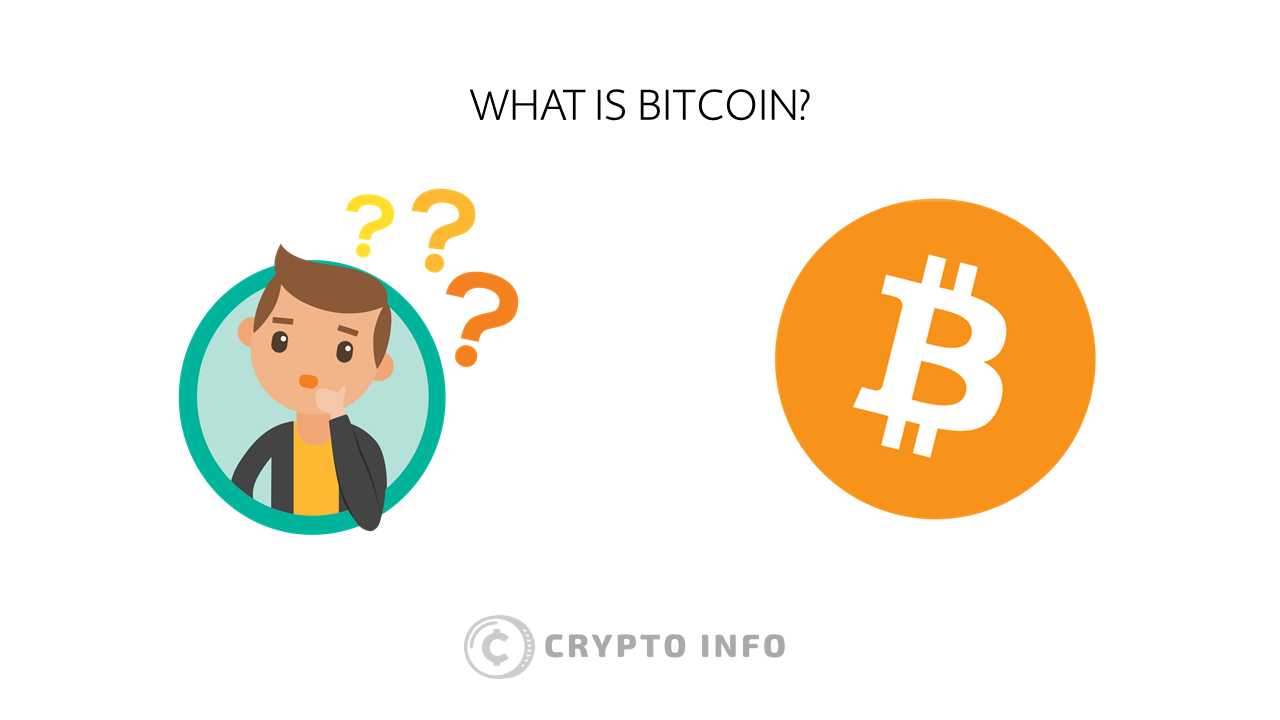
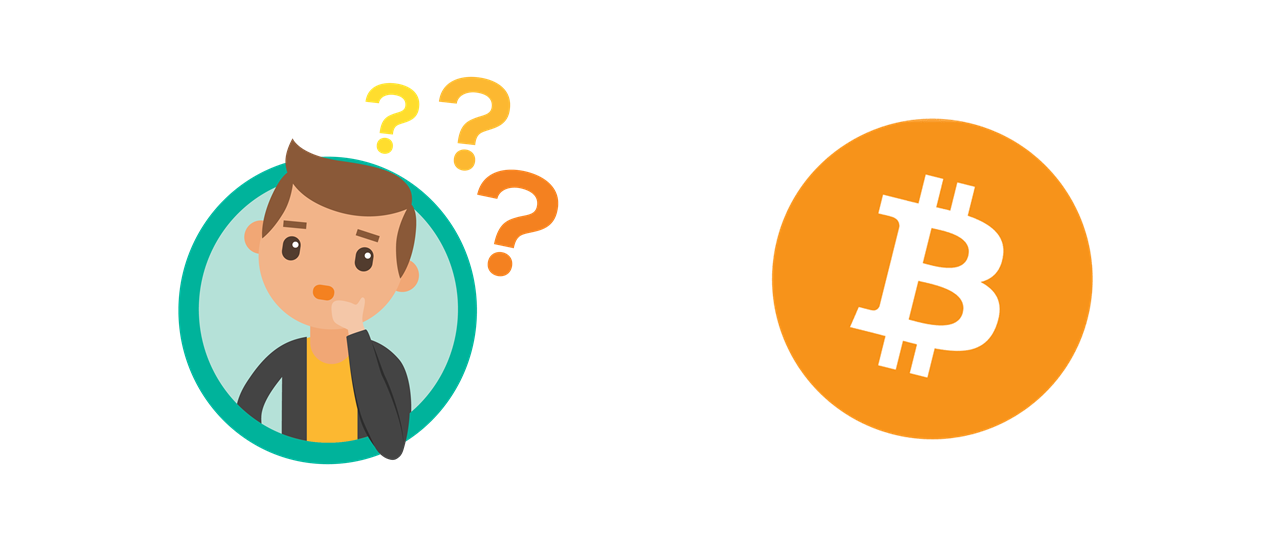
3 commit

diff --git a/Knowledge/what_is_blockchain.html b/Knowledge/what_is_blockchain.html
@@ -5,6 +5,9 @@
     <meta charset="utf-8">
     <meta name="viewport" content="width=device-width, initial-scale=1, shrink-to-fit=no">
 
+    <!-- Google fonts-->
+    <link href="https://fonts.googleapis.com/css2?family=Spartan&display=swap" rel="stylesheet">
+
     <!-- Bootstrap CSS -->
     <link rel="stylesheet" href="https://stackpath.bootstrapcdn.com/bootstrap/4.4.1/css/bootstrap.min.css" integrity="sha384-Vkoo8x4CGsO3+Hhxv8T/Q5PaXtkKtu6ug5TOeNV6gBiFeWPGFN9MuhOf23Q9Ifjh" crossorigin="anonymous">
 
@@ -44,11 +47,11 @@
                 Cryptocurrencies
               </a>
               <div class="dropdown-menu" aria-labelledby="navbarDropdown">
-                <a class="dropdown-item" href="Cryptocurrencies/bitcoin.html">Bitcoin</a>
-                <a class="dropdown-item" href="Cryptocurrencies/ethereum.html">Ethereum</a>
-                <a class="dropdown-item" href="Cryptocurrencies/ripple.html">Ripple</a>
-                <a class="dropdown-item" href="Cryptocurrencies/litecoin.html">Bitcoin Cash</a>
-                <a class="dropdown-item" href="Cryptocurrencies/bitcoin_cash.html">Litecoin</a>
+                <a class="dropdown-item" href="../Cryptocurrencies/bitcoin.html">Bitcoin</a>
+                <a class="dropdown-item" href="../Cryptocurrencies/ethereum.html">Ethereum</a>
+                <a class="dropdown-item" href="../Cryptocurrencies/ripple.html">Ripple</a>
+                <a class="dropdown-item" href="../Cryptocurrencies/litecoin.html">Bitcoin Cash</a>
+                <a class="dropdown-item" href="../Cryptocurrencies/bitcoin_cash.html">Litecoin</a>
                 <a class="dropdown-item" href="#">IOTA</a>
               </div>
             </li>  
@@ -79,11 +82,14 @@
     <!-- Text Area -->
 
 
-<div class="textbox">
-  <h1>What is blockchain ?</h1>    
-
+<div class="knowledge">
+  <img src="../src/img/what_is_blockchain.png">
+  <h1>WHAT IS BLOCKCHAIN?</h1> 
+  <br>   
   Blockchain is a system  of recording datas and information in a way that makes it impossible to change or cheat the system. A blockchain is essentially a digital ledger of transactions that is duplicated and distributed across the entire network of computer systems on the blockchain Each block in the chain contains a number of transactions and every time a new transaction occurs on the blockchain, a record of that transaction is added to every participant ledger. The decentralised database managed by multiple participants is known as Distributed Ledger Technology.
   <br>
+  <br>
+
   Blockchain had first time public attention in in 2008. A person or group using the name Satoshi Nakamoto used the blockchain technology to create the cryptocurrency bitcoin. The invention of bitcoin made it the first digital currency to solve the double-spending problem without the need of a trusted authority or central server
   
   The bitcoin blockchain is the basic of many other cryptocurrencies and modern databases.

diff --git a/Cryptocurrencies/bitcoin.html b/Cryptocurrencies/bitcoin.html
@@ -5,6 +5,10 @@
     <meta charset="utf-8">
     <meta name="viewport" content="width=device-width, initial-scale=1, shrink-to-fit=no">
 
+    <!-- Google fonts-->
+    <link href="https://fonts.googleapis.com/css2?family=Spartan&display=swap" rel="stylesheet">
+
+
     <!-- Bootstrap CSS -->
     <link rel="stylesheet" href="https://stackpath.bootstrapcdn.com/bootstrap/4.4.1/css/bootstrap.min.css" integrity="sha384-Vkoo8x4CGsO3+Hhxv8T/Q5PaXtkKtu6ug5TOeNV6gBiFeWPGFN9MuhOf23Q9Ifjh" crossorigin="anonymous">
 
@@ -77,6 +81,8 @@
       <div class="what_is_bitcoin">
           
         <img src="../src/img/what_is_bitcoin.png">
+        <h1>WHAT IS BITCOIN?</h1>
+        <br>
 
         <p>
             Bitcoin is the first decentralized digital currency, with which you can make payments for products 
@@ -86,13 +92,23 @@
 
         <p>
             Bitcoin is:<br>
-            
-            -Currency because like the Euro, Dollar or Pound with bitcoin we can pay for products or services.
-            <br>
-            -Digital because it only exists on the internet.
-            <br>
-            -Decentralized because it does not depend on governments or banks.
+
+            <ul>
+              <li>Currency because like the Euro, Dollar or Pound with bitcoin we can pay for products or services.</li>
+              <li>Digital because it only exists on the internet.</li>
+              <li>Decentralized because it does not depend on governments or banks.</li>
+            </ul>  
         </p>
+
+        <img src="../src/img/satoshi_nakamoto.png"></img>
+        <br>
+        <h1>WHO CREATED BITCOIN?</h1>
+        <br>
+      <p>Bitcoin was first unveiled on November 01, 2008, via a mass email signed by Satoshi Nakamoto; titled Bitcoin: A Peer-to-Peer Electronic Cash System. The document speaks of a completely digital currency, to make payments from person to person, using a cryptographic system.
+        <br><br>
+        "A purely peer-to-peer version of electronic cash would allow online payments to be sent directly from one party to another without going through a financial institution. Digital signatures provide part of the solution, but the main benefits are lost if a trusted third party is still required to prevent double-spending"
+        <br><br>
+        Months later,  on January 3 of 2009, the first Peer-To-Peer network (person-to-person) based on the cryptographic protocol proposed by Satoshi (Bitcoin) was launched; after the launch of the first open source software to run nodes of the currency, which also meant the creation of the first bitcoins and the start of mining. The first block of bitcoin (known as the genesis block) is mined by Satoshi Nakamoto himself.  </p>
 
       </div>
 

diff --git a/index.html b/index.html
@@ -96,9 +96,9 @@
         <br>
         The first cryptocurrency that became known on the market was Bitcoin in 2009,   since then other cryptocurrencies have been created such as Litecoin, Ethereum, Bitcoin Cash, Ripple, Dogecoin  to name the main ones.  
        </p>
-       <img src="src/img/home_crypto.png">
+       <img src="src/img/benefits_of_bitcoin.png">
        <br>
-       <br>
+       
        <h1>BENEFITS OF CRYPTOCURRENCIES</h1>
        <br>
 
@@ -110,8 +110,25 @@
          <li>Transactions are instant and low cost; usually when we want to send dinero, we lose a percentage in commissions either by using the service in the bank or by the exchange rate we are set, when we make a cryptocurrency transaction specific to bitcoin, the transfer is immediate and with a minimum percentage of service regardless of where you send.</li>
           <br>
          <li>They are safe and reliable; every transaction made with cryptocurrencies is recorded on the network and is in the public domain, anyone can,  see  the  transaction, but the identity of the person who made it and who was made, thus guaranteeing privacy to users is not  published, in addition your Bitcoin account cannot be frozen or canceled as sometimes happens with banks.  </li>
-         
-     </div>
+       </ol>
+
+      </div>
+
+    <div class="how_it_works">
+      <h1> HOW DO CRYPTOCURRENCIES WORK?</h1>
+      <br>
+      <img src="src/img/bitcoin_wallet .png">
+      <p>
+       The first thing you need to do is download on your mobile phone or pc a cryptocurrency wallet, once you have it you can start sending and receiving cryptocurrencies, each transaction will generate a secure code similar to an email address, each time you do a transaction will generate a new address. You can buy cryptocurrencies with money from your account, credit card or debit card.
+     </p>
+     <img src="src/img/send_bitcoin.png" ></img>
+     <br>
+     <p>To send your digital coins you need the address of the person that receive them, the money will arrive in seconds to the receiver wallet with a minumum fee charged for the transaction. You will be available to send cryptos all around the world with not limits. </p>
+     <img src="src/img/blockchain_icon.png" ></img>
+     <br>
+     <p>All Cryptocurrencies transactions are registered in an accounting book called blockchain.</p> 
+
+    </div>
 
     
 

diff --git a/style.css b/style.css
@@ -1,5 +1,11 @@
+/* ------global------- */
+
 body {
     font-family: 'Spartan', sans-serif;
+}
+
+h1 {
+    text-align: center;
 }
 
 .charts {
@@ -8,19 +14,10 @@ body {
     margin-left: 140px;
 }
 
-.textbox {
-    margin: 80px;
-}
 
-/*  Home */
+/* ------ Home ------- */
 
-.header > img {
-    width: 70%;
-    height: auto;
-    display: block;
-    margin: 0 auto;
-    margin-top: 40px;
-}
+
 
 .home_crypto > img {
     width: 70%;
@@ -40,10 +37,39 @@ body {
     text-align: center;
 }
 
+.how_it_works {
+    margin-left: 130px;
+    margin-right: 130px;
+    margin-top: 50px;
+    text-align: justify;
+}
+
+.how_it_works > img {
+    width: 10%;
+    height: auto;
+    display: block;
+    margin: 0 auto;
+}
+
+/* ---Knowledge ---*/
+
+.knowledge {
+    text-align: justify;
+    margin-left: 130px;
+    margin-right: 130px;
+}
+
+ .knowledge > img {
+    width: 70%;
+    height: auto;
+    display: block;
+    margin: 0 auto;
+ }
+
 /* Cryptocurrencies > What is Bitcoin */
 
 .what_is_bitcoin {
-    
+    text-align: justify;
     margin-left: 130px;
     margin-right: 130px;
 }
